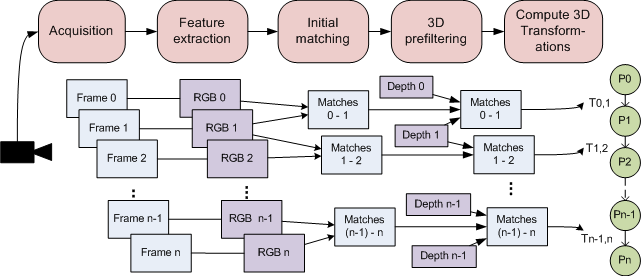
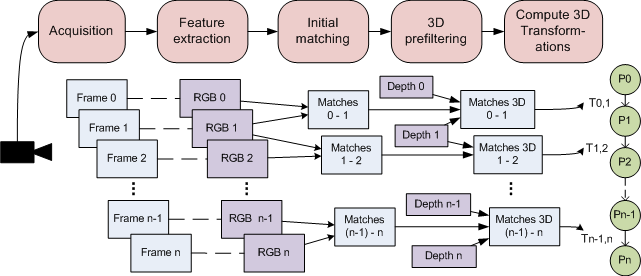
update thesis

diff --git a/doc/contents.tex b/doc/contents.tex
@@ -7,7 +7,7 @@ Generally, the main problem raised with \gls{SLAM} comes from the measurement er
 \begin{figure}[h!]
 \begin{center}
 \includegraphics[width=1.0\textwidth]{figures/visual_slam}
-\caption{General idea of Visual SLAM - the poses of the camera (and therefore of the robot) are determined by the information given by the video. The estimations can lead to a drift with respect to the real trajectory.}
+\caption{General idea of Visual SLAM - the poses of the camera (hence, the robot for a fixed camera) are determined by the information given by the video. The estimations can lead to a drift with respect to the real trajectory. The uncertainty grows over time.}
 \end{center}
 \end{figure}
 
@@ -478,8 +478,8 @@ Some preliminar experiments were conducted to determine how to find a satisfying
 \begin{figure}[H]
 \centering$
  \begin{array}{cc}
- \subfloat[]{\label{fig:sift_match_1} \includegraphics[width=0.4\textwidth]{pictures/sift_matching_init}} &
- \subfloat[]{\label{fig:sift_match_2} \includegraphics[width=0.4\textwidth]{pictures/sift_matching_ransac}}
+ \subfloat[]{\label{fig:sift_match_1} \includegraphics[width=0.5\textwidth]{pictures/sift_matching_init}} &
+ \subfloat[]{\label{fig:sift_match_2} \includegraphics[width=0.5\textwidth]{pictures/sift_matching_ransac}}
  \end{array}$
 \caption{Matching of SIFT features - \protect\subref{fig:sift_match_1} Initial matching \protect\subref{fig:sift_match_2} After a RANSAC loop. Note how the initial matches drawn in diagonal (green) in the left figure are excluded and become outliers (red) after the RANSAC loop.}
 \end{figure}
@@ -535,8 +535,6 @@ The corresponding values can be used to measure and detect this kind of situatio
 \end{tabular}
 
 Instead of using the ratio of inliers as the criterion to measure the quality of the model, the variance could be used, not only as an evaluation of the goodness ("score") but also as a criterion for the selection of the k elements of each sample. For example, the initial elements would have above a minimal distance from the mean, set by a threshold.
-
-\clearpage
 
 \section{Summary}
 
@@ -681,9 +679,9 @@ Two types of experiments were conducted: online, by moving the Kinect sensor by 
 
 \begin{figure}[h]
  \begin{center}
- \includegraphics[width=0.3\textwidth]{pictures/Dora_small_2108}
+ \includegraphics[width=0.8\textwidth]{pictures/Dora_7587}
  \end{center}
-\caption{Dora the explorer (without the Kinect mounted)}
+\caption{Dora the explorer}
 \end{figure}
 
 At KTH, the main dataset took place in environment with 4 different rooms connected by a corridor, resulting in 6474 frames (RGB-D datafiles) with several possibilities of loop closures. 
@@ -887,22 +885,14 @@ These results mainly shows that maps can be built with this system and the inter
 This work gave a good insight into the general problem \gls{SLAM}, and more specifically about \gls{VSLAM} with feature extraction and matching. The approach can be described in the following steps:
 \begin{enumerate}
 \item Feature extraction: \gls{SIFT}/\gls{SURF} extraction in 2D
-\item Feature matching: kd-tree on the feature space with depth criterion
-\item Transformation: \gls{RANSAC} in 3D
+\item Feature matching: kd-tree on the feature space, using the depth for a preselection of the features
+\item Transformation: \gls{RANSAC} on the projected points in 3D
 \item Graph optimization: based on the $g^2o$ framework
 \item Loop Closures: add some constraints in the graph by detecting scenes already seen in the past
 \item Scene reconstruction: registrate the points clouds accordingly to the estimation of the keyposes, and concatenate them to build the global map.
 \end{enumerate}
 
-Given this, it is now possible to imagine some improvements of the current work, in terms of performance and quality of the results.
-
-\section{Performance improvements}
-
-Currently, most of the time is passed on the feature extraction. Remaining very close to the given method, the overall performance would significantly be improved by lowering the time spent for this step. This could be done through the use of new features:
-\begin{itemize}
-\item BRIEF: combined with a keypoint detector such as \gls{SURF} or \gls{SIFT}, the \gls{BRIEF} descriptors\cite{Calonder10-brief} could give an interesting alternative to the standard ones, by being more efficient to compute. However, this would imply to rewrite the matching code, by doing binary string comparison. See also the PhD thesis of the author\cite{Calonder10_PhD}.
-\item SIFT GPU: a feature extraction optimized with hardware acceleration would give the same results in a very shorter time (about 1000s to 100ms for each feature extraction).
-\end{itemize}
+Given this, it is now possible to imagine some improvements of the current work, both in terms of quality of the results and overall performance.
 
 \section{Quality improvements}
 
@@ -913,6 +903,15 @@ The quality can be improved at different levels:
 \item Additional sensors: in this work, the only sensor used was the Kinect providing RGB-D data. One possibility would be to use others sensors and combine them to get a better result. This is particularly true when the transformations computed by the method presented in this work are less reliable. For example, when the quality of the transformations is not good, the odometry could be used assuming this is done for a short period of time.
 \end{itemize}
 
+\section{Performance improvements}
+
+Currently, most of the time is passed on the feature extraction. Remaining very close to the given method, the overall performance would significantly be improved by lowering the time spent for this step. Here are a few alternatives :
+\begin{itemize}
+\item GPU implementation: a feature extraction optimized for the hardware of the graphic cards would dramatically lower the computational time to enable real-time applications. Some implementations exist for SIFT GPU and SURF GPU, that would reasonably lead to features extraction under 100ms on the current platform. In addition, there are solutions taking advantage of the parallel computing on specific platforms, such as CUDA~\texttrademark for the NVIDIA graphic cards. The features extraction could then be performed in 15-20ms.
+\item BRIEF: combined with a keypoint detector such as \gls{SURF} or \gls{SIFT}, the \gls{BRIEF} descriptors~\cite{Calonder10-brief} could give an interesting alternative to the standard ones, by being more efficient to compute. However, this would imply to rewrite the matching code, by doing binary string comparison. See also the PhD thesis of the author~\cite{Calonder10_PhD}.
+\item ICP: though the use of the standard algorithm could increase the computational time, some efficient variations exist~\cite{Rusinkiewicz_2001}. 
+\end{itemize}
+
 \section{Other approach}
 
-With the KinectFusion project~\cite{MSFusion}, Microsoft presents a solution performing reconstruction without any feature, though it achieves real-time performance as demostrated\footnote{KinectFusion: \url{http://www.youtube.com/watch?v=quGhaggn3cQ}} at SIGGRAPH~2011. Based on \gls{ICP}, directly run on the point clouds from the depth data. However, the details of the method are not published yet. Some indications can be found in the paper about live dense reconstruction written by Newcombe~\cite{Newcombe_2010}, who participated to the KinectFusion project. The article describes how an accurate dense reconstruction can be performed real-time, which could be promising in the future for many applications related to computer vision, not only mapping but also segmentation and object recognition.
+With the KinectFusion project, Microsoft presents a solution performing reconstruction without any feature, though it achieves real-time performance as demonstrated\footnote{KinectFusion: \url{http://www.youtube.com/watch?v=quGhaggn3cQ} (last access Nov 2011)} at SIGGRAPH~2011. The camera tracking is based on a GPU implementation of \gls{ICP} on the point clouds generated from the depth data. The related papers \cite{Izadi_2011_SIGGRAPH} \cite{Newcombe_2011_ISMAR} describe how an accurate dense reconstruction can be performed real-time, which could be promising in the future for many applications related to computer vision, not only mapping but also segmentation and object recognition.
